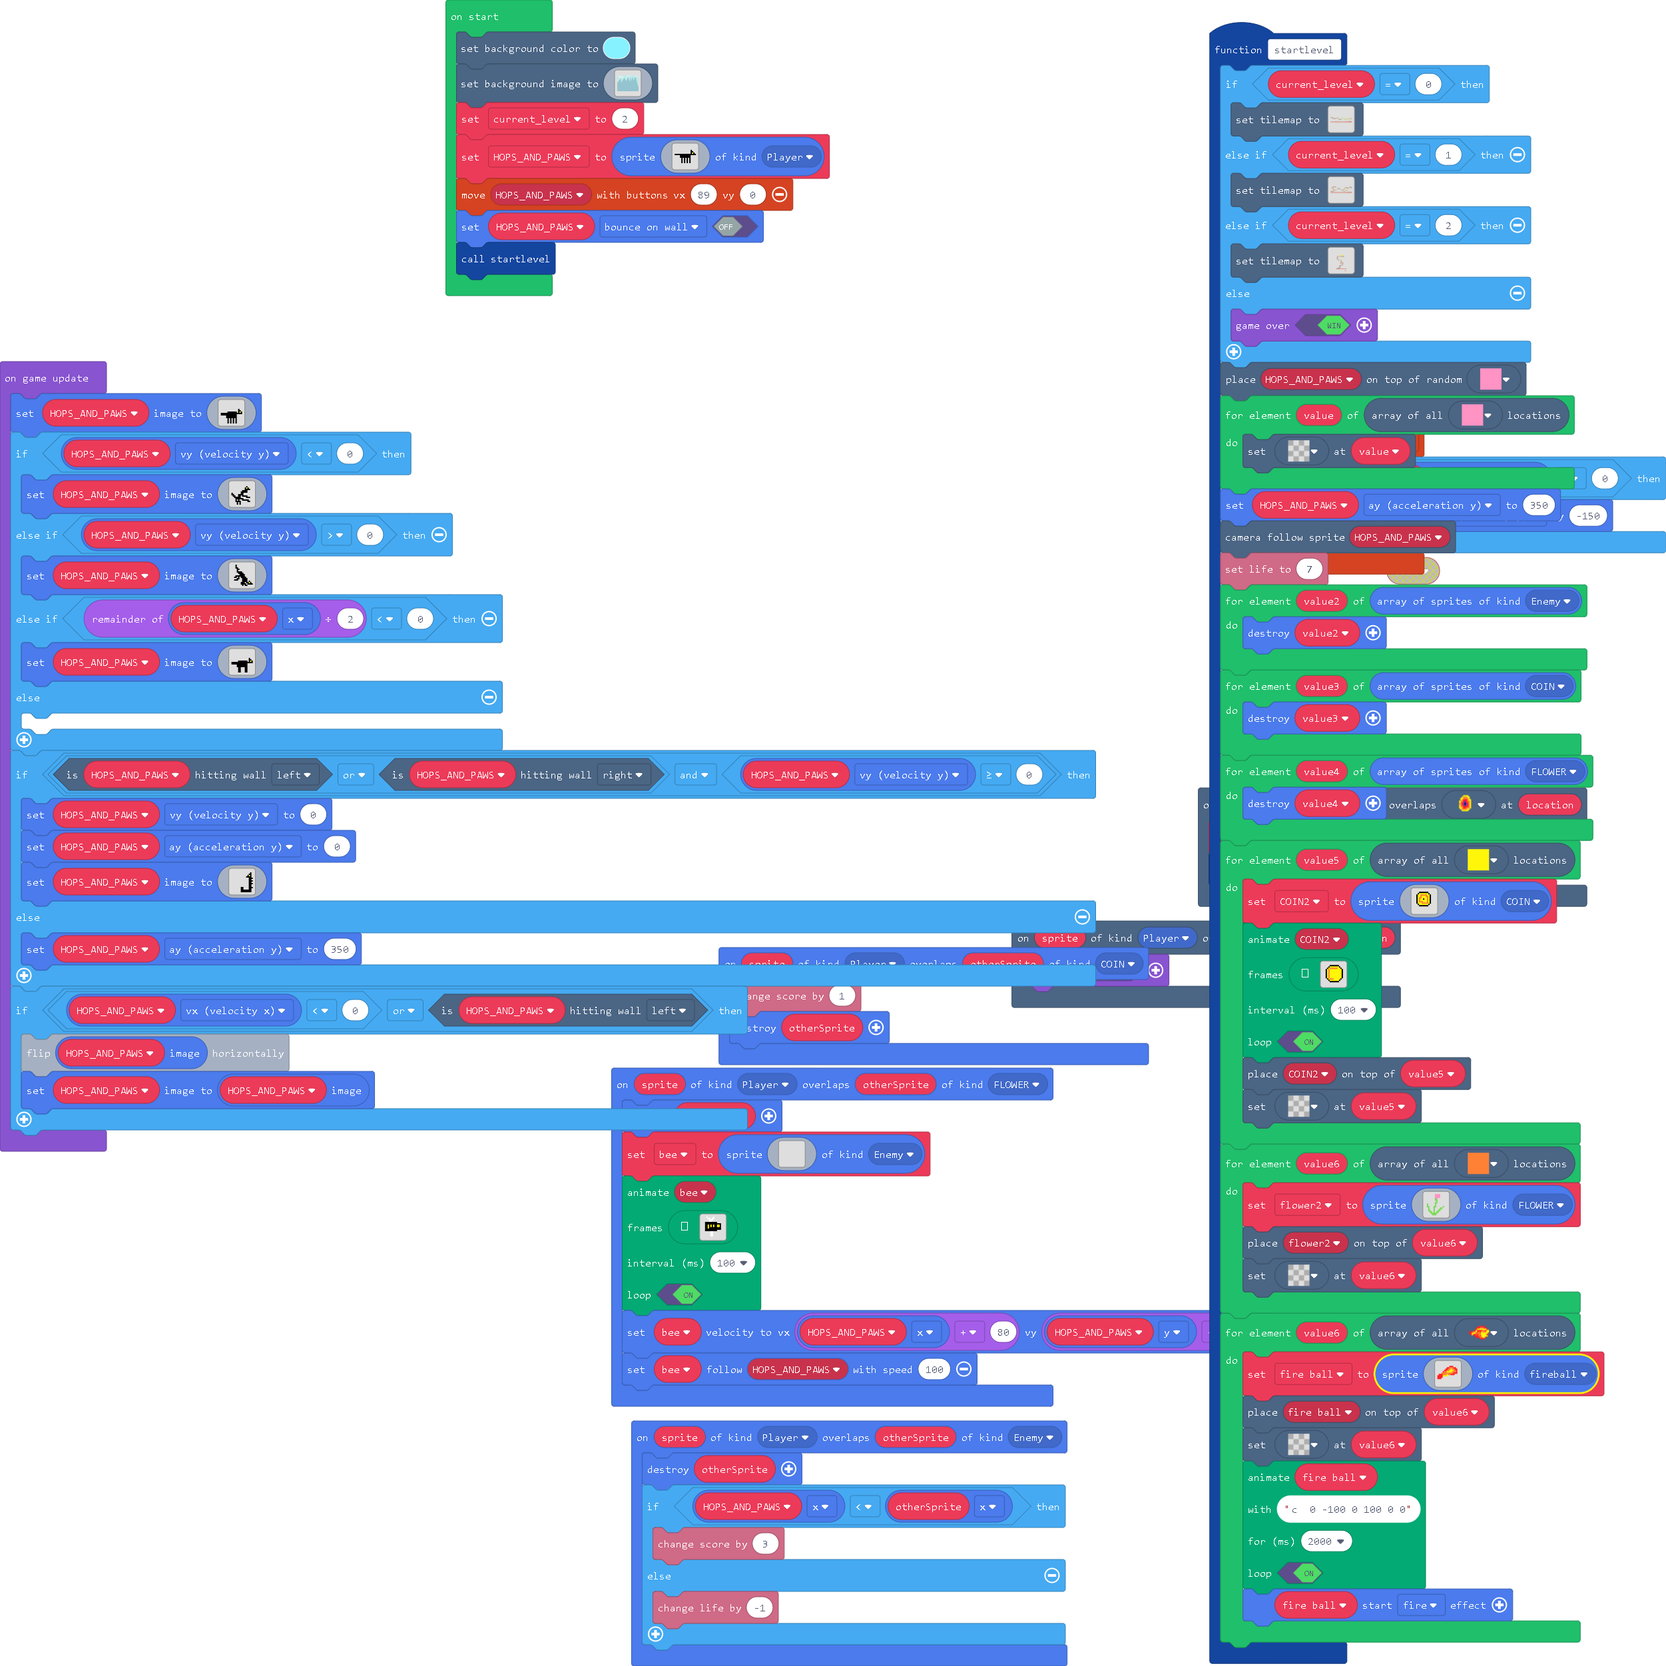
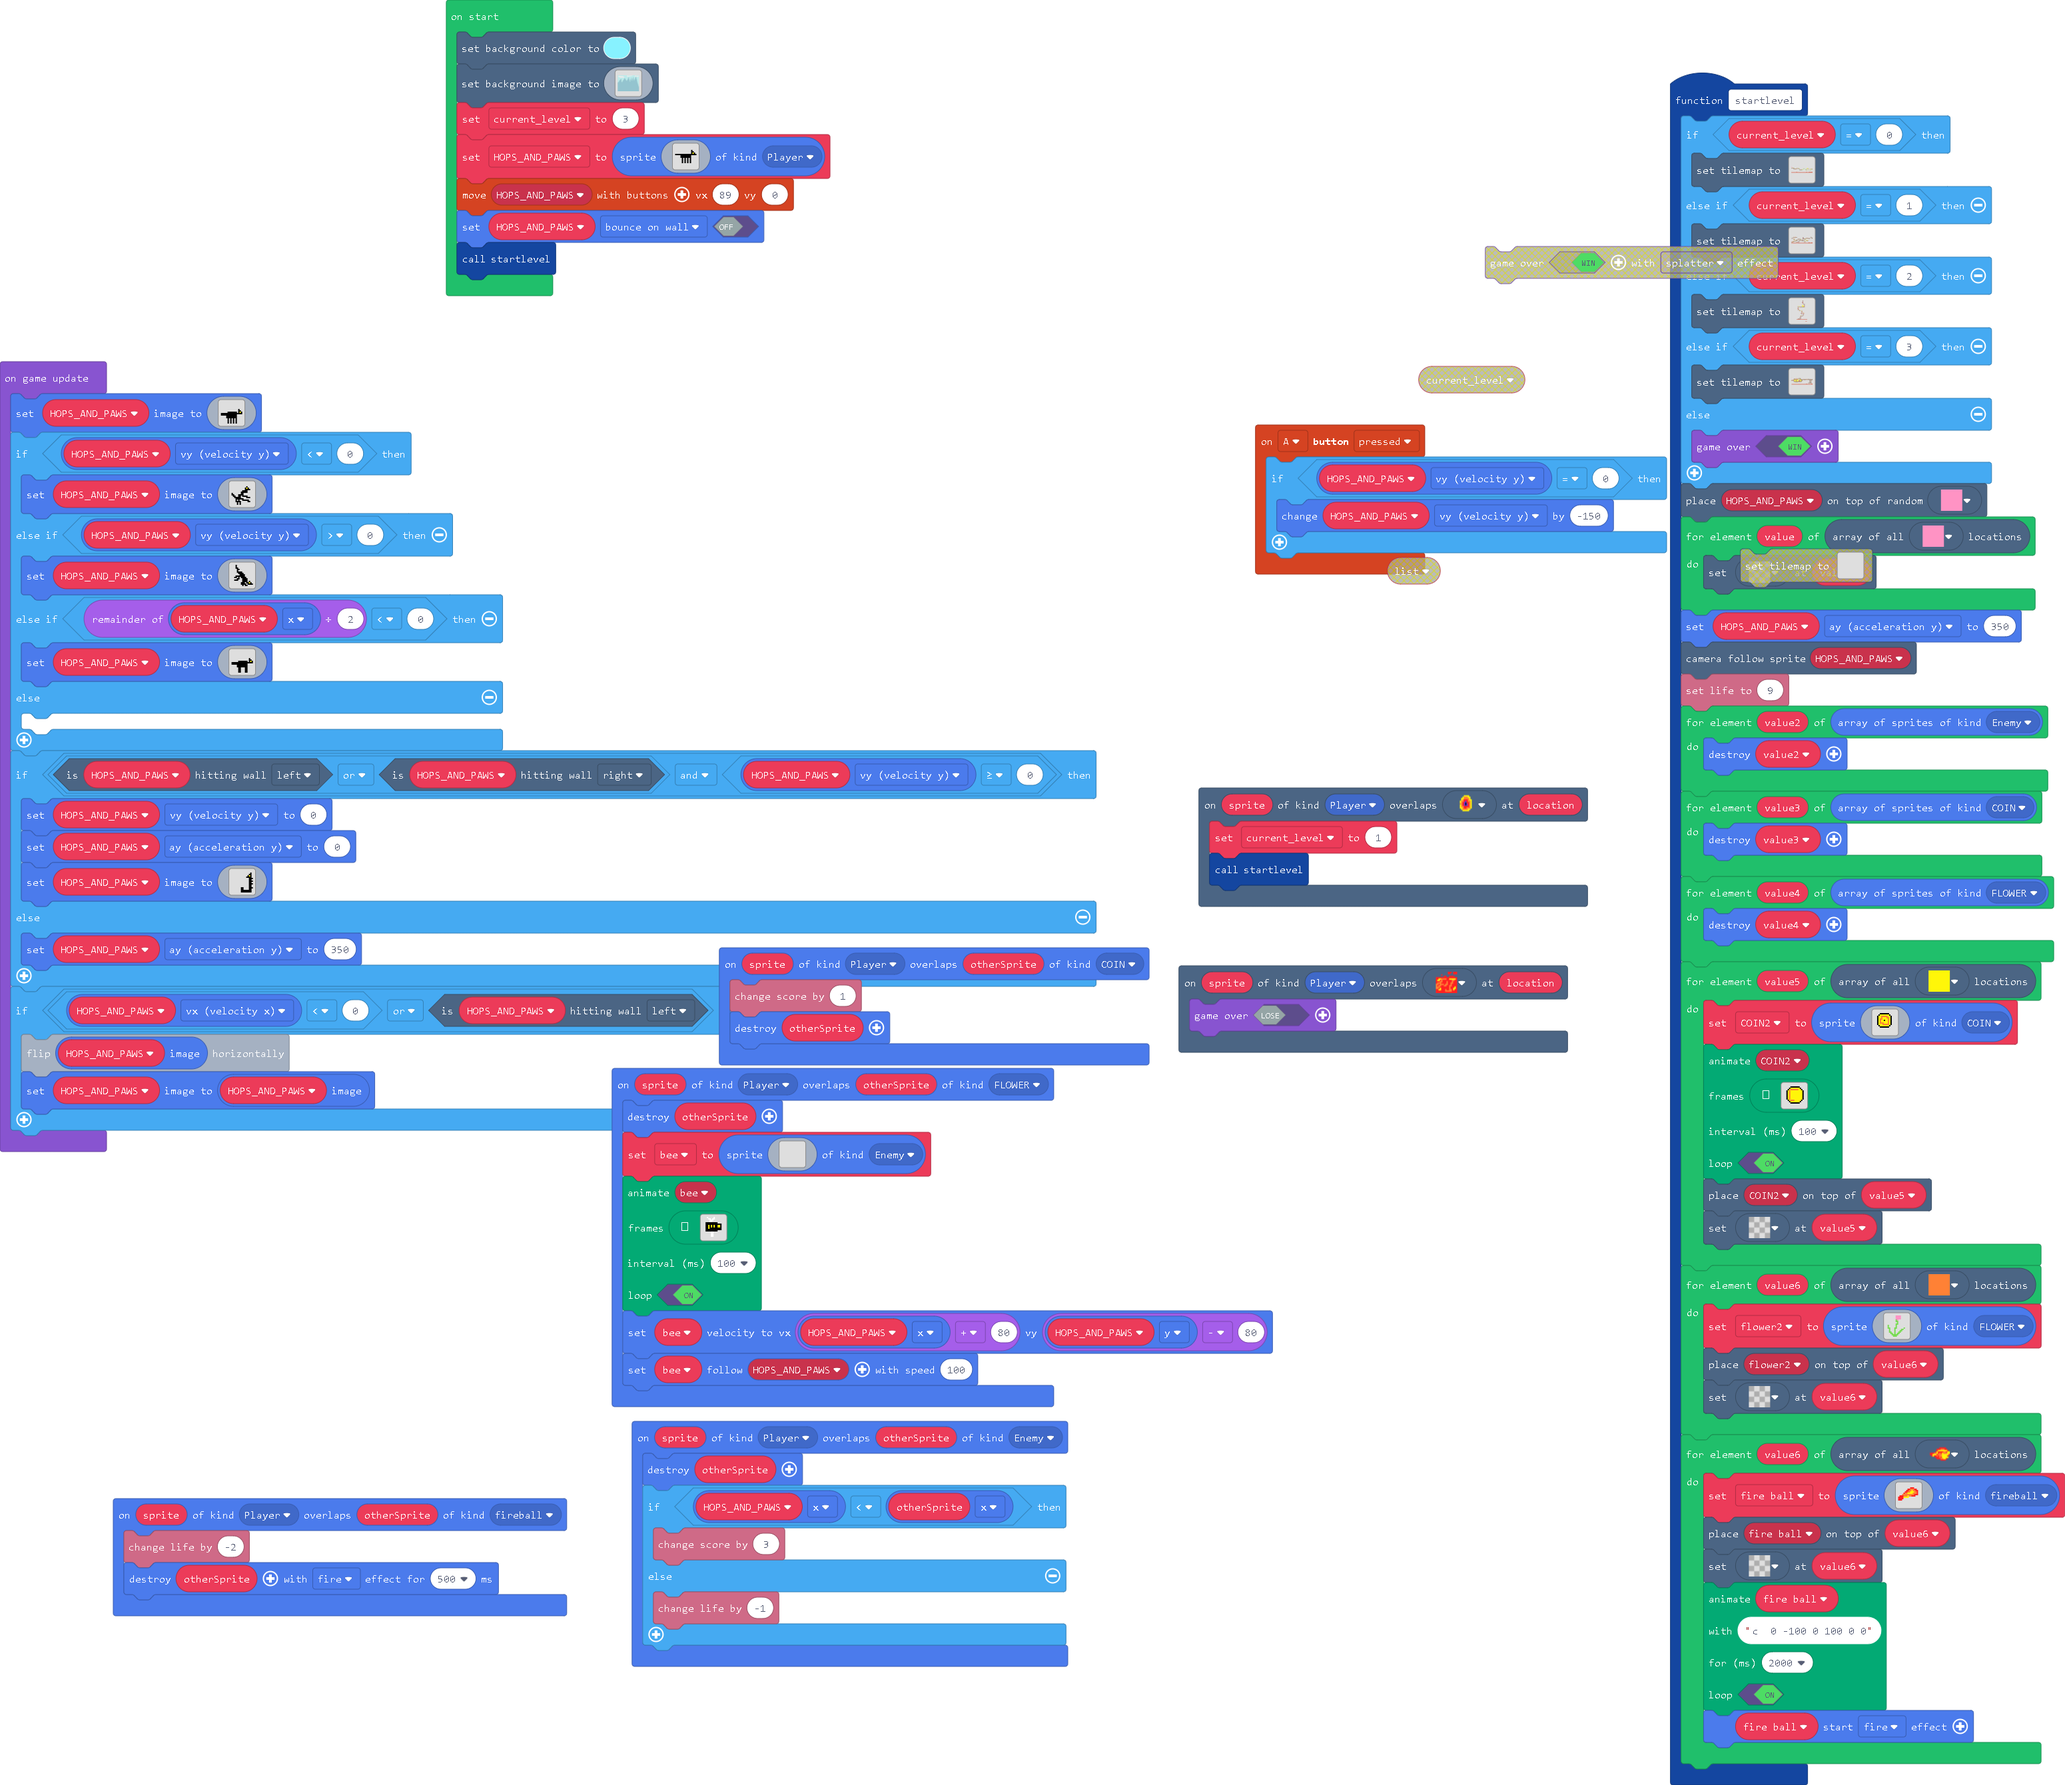
Update pxt.json, main.blocks, main.ts

diff --git a/main.ts b/main.ts
@@ -309,6 +309,10 @@ e e e e e e e e e e e e e e e e
 . . . . . . . . . . . . . . . . 
 `
 }
+sprites.onOverlap(SpriteKind.Player, SpriteKind.fireball, function (sprite, otherSprite) {
+    info.changeLifeBy(-2)
+    otherSprite.destroy()
+})
 scene.onOverlapTile(SpriteKind.Player, myTiles.tile5, function (sprite, location) {
     current_level = 1
     startlevel()
@@ -332,7 +336,7 @@ sprites.onOverlap(SpriteKind.Player, SpriteKind.Enemy, function (sprite, otherSp
 function startlevel () {
     if (current_level == 0) {
         tiles.setTilemap(tiles.createTilemap(
-            hex`320010000000000000000000000000000000000000000000000000000000000000000000000000000000000000000000000000000000000000000000000000000000000000000000000000000000000000000000000000000000000000000000000000000000000009090000000000000000000000000000000000000000000000000000000000000000000000000000000000000000000000000000000000000000000000000000000000000000000000000000000000000000000000000000000000000000000000000000000008000007000000000000000000000000000000000000000000000000000000000000000000000000000000000000000001010101010100000000000000000008000700000000000000000000000000000000000000070700000000000000000000000000000000000000000008070000000101010200000000000000000008020002000000000007070008080000000007000000000000000001010101010101010000000000000000000000000000000200000002000000000202000202000002000108000600000000000000000000000000000000000000000000000008000702000000000002080000000000000000000000000202020000000000000000000000000000000000000001010101010102020000000000000002080000000800000008000800000000000000000000000000000000000000000000000000000000000000000000000000000202080000020000000200020000000000000000000000000000000000000000000000000000000000000000000000000000000000000000000000000000000000000000000000000000000000000000000000000000000000000000000000000000000000000000000000000000000000000000000000000000000000000000000000000000000000000000000000000000000000000000000000000000000000000000000000000000000000000000000005050000000000000000000000000000000000000000000505000000000505050505050505050505050505050505050505050505050505050505050505050505050505050505050505050505050505050505050505050505`,
+            hex`320010000000000000000000000000000000000000000000000000000000000000000000000000000000000000000000000000000000000000000000000000000000000000000000000000000000000000000000000000000000000000000000000000000000000009090000000000000000000000000000000000000000000000000000000000000000000000000000000000000000000000000000000000000000000000000000000000000000000000000000000000000000000000000000000000000000000000000000000008000007000000000000000000000000000000000000000000000000000000000000000000000000000000000000000001010101010110000000000000100008000700000000000000000000000000000000000000070700000000000000000000000000000000000000000008070000000101010200000000000000000008020002000000000007070008080000000007000000000000000001010101010101010000000000001000000000000000000200000002000000100202000202000002000108000600000000000000000000000000000000000000000000000008000702000000000002080000000000000000000000000202020000000000000000000000000000000000000001010101010102020000000000000002080000000800000008000800000000000000000000000000000000000000000000000000000000000000000000000000000202080000020000000200020000000000000000000000000000000000000000000000000000000000000000000000000000000000000000000000000000000000000000000000000000000000000000000000000000000000000000000000000000000000000000000000000000000000000000000000000000000000000000000000000000000000000000000000000000000000000000000000000000000000000000000000000000000000000000000005050000000000000000000000000000000000000000000505000000000505050505050505050505050505050505050505050505050505050505050505050505050505050505050505050505050505050505050505050505`,
             img`
 . . . . . . . . . . . . . . . . . . . . . . . . . . . . . . . . . . . . . . . . . . . . . . . . . . 
 . . . . . . . . . . . . . . . . . . . . . . . . . . . . . . . . . . . . . . . . . . . . . . . . . . 
@@ -356,46 +360,46 @@ function startlevel () {
         ))
     } else if (current_level == 1) {
         tiles.setTilemap(tiles.createTilemap(
-            hex`320010000000000000000000000000000000000000000000000000000000000000000000000000000000000000000000000000000000000000000007000007000700000000000000000000000000000000000000000000000000000000000000000000000100000000000000010101010101010101010000000000000000000000000000000000000000000000000000000000000001000100000000000000000000000000000000000000000000000000000000000000000000000000070000070000000000010000010005000001010000000000000000000000000000000000000000000000000000000000000101010101010107000100000000010100000000000700070000000000000000000700000000000000000000000000000006000000000000000101000000000000000000000000010101000000000000000001010101010100060000000000000000010100000000000000000000000000000000000000000000000600000000000000000000000000000101000000000000000600000000000000000000000000000000000000000000000000010100000600000000000000000000000000000000000001010000000006060000000000000000000000000000000000000000000000010101000000000000000000000000000000000000000000000606000000000000000000000000000000000007000006000000000000000000000000000000000101010101000006000000010101010000000000000000000008000000000101010101000000000000000000000000000000000000000000000600000000000000000000000000000000000000070607000000000000000000000000000000000000000000000000000001010100000000000000000000000000000000010101010100000000000000000000000000000000000000000000000000000000000000000000000000000000000000000000000000000000000000000000000000000000000000000000000000000000000000000000000000040404040000040404040404040404040404040404040404040404040404040404040404040404040404040404040404040404040404040404040404`,
[1 lines of base64/hex data omitted]
             img`
 . . . . . . . . . . . . . . . . . . . . . . . . . . . . . . . . . . . . . . . . . . . . . . . . . . 
 . . . . . . . . . . . . . . . . . . . . . . . . . . . . . . . . . . . . . . . . . . . . . . 2 . . . 
-. . . . 2 2 2 2 2 2 2 2 2 2 . . . . . . . . . . . . . . . . . . . . . . . . . . . . . . . 2 . 2 . . 
-. . . . . . . . . . . . . . . . . . . . . . . . . . . . . . . . . . . . . . . . . . . . 2 . . 2 . . 
-. . 2 2 . . . . . . . . . . . . . . . . . . . . . . . . . . . . . . 2 2 2 2 2 2 2 . . 2 . . . . 2 2 
-. . . . . . . . . . . . . . . . . . . . . . . . . . . . . . . . . . . . . . . . . 2 2 . . . . . . . 
-. . . . . 2 2 2 . . . . . . . . 2 2 2 2 2 2 . . . . . . . . . . 2 2 . . . . . . . . . . . . . . . . 
-. . . . . . . . . . . . . . . . . . . . . . 2 2 . . . . . . . . . . . . . . . . . . . . . . . . . . 
-. . . . . . . 2 2 . . . . . . . . . . . . . . . . . . . . . 2 2 . . . . . . . . . . . . . . . . . . 
-. . . . . . . . . . . 2 2 2 . . . . . . . . . . . . . . . . . . . . . . . . . . . . . . . . . . . . 
-. . . . . . . . . . . . . . . . . . . . . . . . . 2 2 2 2 2 . . . . . . 2 2 2 2 . . . . . . . . . . 
-. . . . . 2 2 2 2 2 . . . . . . . . . . . . . . . . . . . . . . . . . . . . . . . . . . . . . . . . 
-. . . . . . . . . . . . . . . . . . . . . . . . . . . . . . . 2 2 2 . . . . . . . . . . . . . . . . 
-2 2 2 2 2 . . . . . . . . . . . . . . . . . . . . . . . . . . . . . . . . . . . . . . . . . . . . . 
-. . . . . . . . . . . . . . . . . . . . . . . . . . . . . . . . . . . . . . . . . . . . . . . . . . 
+. . . . 2 2 2 2 2 2 2 2 2 2 . . . . . . . . . . . . . 2 2 . . . . . . . . . . . . . . . . 2 . 2 . . 
+. . . . . . . . . . . . . . . . . . . . . . . . . . . 2 . . . . . . . . . . . . . . . . 2 . . 2 . . 
+. . 2 2 . . . . . . . . . . . . . . . . . . . . . . . 2 . . . . . . 2 2 2 2 2 2 2 . . 2 . . . . 2 2 
+. . . . . . . . . . . . . . . . . . . . . . . . . . . 2 2 2 2 2 2 . . . . . . . . 2 2 . . . . . . . 
+. . . . . 2 2 2 . . . . . . . . 2 2 2 2 2 2 . . . . . 2 . . . . 2 2 . . . . . . . . . . . . . . . . 
+. . . . . . . . . . . . . . . . . . . . . . 2 2 . . . 2 . . . . . . . . . . . . . . . . . . . . . . 
+. . . . . . . 2 2 . . . . . . . . . . . . . . . . . . 2 . . 2 2 . . . . . . . . . . . . . . . . . . 
+. . . . . . . . . . . 2 2 2 . . . . . 2 2 2 2 2 2 . . 2 . . . . . . . . . . . . . . . . . . . . . . 
+. . . . . . . . . . . . . . . . . 2 2 2 . . . . . 2 2 2 2 2 . . . . . . 2 2 2 2 . . . . . . . . . . 
+. . . . . 2 2 2 2 2 . . . . . . . 2 . . . . . . . . . . . . . . . . . . . . . . . . . . . . . . . . 
+. . . . . . . . . . . . . . . . . 2 . . . . . . . . . . . . . 2 2 2 . . . . . . . . . . . . . . . . 
+2 2 2 2 2 . . . . . . 2 2 . . 2 . 2 . . . . . . . . . . . . . . . . . . . . . . . . . . . . . . . . 
+. . . . . . . . . . . . . . . . . 2 . . . . . . . . . . . . . . . . . . . . . . . . . . . . . . . . 
 . . . . . . . . . . . . . . . . . . . . . . . . . . . . . . . . . . . . . . . . . . . . . . . . . . 
 `,
-            [myTiles.tile0,myTiles.tile1,myTiles.tile2,myTiles.tile3,myTiles.tile4,myTiles.tile5,myTiles.tile6,myTiles.tile7,myTiles.tile8,myTiles.tile9,myTiles.tile10,myTiles.tile11,myTiles.tile12,myTiles.tile13,myTiles.tile14,myTiles.tile15],
+            [myTiles.tile0,myTiles.tile1,myTiles.tile2,myTiles.tile3,myTiles.tile4,myTiles.tile5,myTiles.tile6,myTiles.tile7,myTiles.tile8,myTiles.tile9,myTiles.tile10,myTiles.tile11,myTiles.tile12,myTiles.tile13,myTiles.tile14,myTiles.tile15,sprites.castle.tileGrass2],
             TileScale.Sixteen
         ))
     } else if (current_level == 2) {
         tiles.setTilemap(tiles.createTilemap(
[2 lines of base64/hex data omitted]
             img`
 . . . . . . . . . . . . . . . . . . . . . . . . . 
+. . . . . . . . . . . . . . 2 . . . . . . . . . . 
+. . . . . . . . . . . . . . 2 . . . . . . . . . . 
+. . . . . . . . . . . . . . 2 . . . . . . . . . . 
+. . . . . . . . . . . . . . 2 . . . . . . . . . . 
+. . . . . . . . . . . . . 2 . 2 . . . . . . . . . 
 . . . . . . . . . . . . . . . . . . . . . . . . . 
-. . . . . . . . . . . . . . . . . . . . . . . . . 
-. . . . . . . . . . . . . . . . . . . . . . . . . 
-. . . . . . . . . . . . . . . . . . . . . . . . . 
-. . . . . . . . . . . . . . . . . . . . . . . . . 
-. . . . . . . . . . . . . . . . . . . . . . . . . 
-. . . . . . . . . . . . . . . . . . . . . . . . . 
-. . . . . . . . . . . . . . . . . . . . . . . . . 
-. . . . . . . . . . . . . . . . . . . . . . . . . 
-. . . . . . . . . . . . . . . . . . . . . . . . . 
-. . . . . . . . . . . . . . . . . . . . . . . . . 
-. . . . . . . . . . . . . . . . . . . . . . . . . 
-. . . . . . . . . . . . . . . . . . . . . . . . . 
+. . . . . . . . . . . . . . 2 . . . . . . . . . . 
+. . . . . . . . . . . . . . . . . . 2 . . . . . . 
+. . . . . . . . . . . . . . . . . . 2 . . . . . . 
+. . . . . . . . . . . . . . . . . . 2 . . . . . . 
+. . . . . . . . . . . . . . . . . . 2 . . . . . . 
+. . . . . . . . . . . . . . . . . . 2 . . . . . . 
+. . . . . . . . . . . . . . . . . . 2 . . . . . . 
 . . . 2 . . . . . . . . . . . . . . . . . . . . . 
 . . . 2 . . 2 2 . . 2 2 2 2 2 2 2 2 2 . . . . . . 
 . . . 2 . . . . . . . . . . . . . . . . . . . . . 
@@ -436,6 +440,30 @@ function startlevel () {
             [myTiles.tile0,myTiles.tile1,myTiles.tile2,myTiles.tile3,myTiles.tile4,myTiles.tile5,myTiles.tile6,myTiles.tile7,myTiles.tile8,myTiles.tile9,myTiles.tile10,myTiles.tile11,myTiles.tile12,myTiles.tile13,myTiles.tile14,sprites.castle.tilePath1,sprites.castle.tilePath4,myTiles.tile15],
             TileScale.Sixteen
         ))
+    } else if (current_level == 3) {
+        tiles.setTilemap(tiles.createTilemap(
[1 lines of base64/hex data omitted]
+            img`
+. . . . . . . . . . . . . . . . . . . . . . . . . . . . . . . . . . . . . . . . . . . . . . . . . . 
+. . . . . . . . . . . . . . . . 2 . . 2 2 . . . . . . . . . . . . . . . . . . . . . . . . . . . . . 
+. . . . . . . . . . . 2 . . . . 2 . . 2 2 2 . . . . . . . . . . . . . . . . . . . . . . . . . . . . 
+. . . . . . 2 2 2 2 . 2 . . 2 2 . . 2 2 . 2 2 2 . . . . . . . . . . . . . . . . . . . . . . . . . . 
+. . . . . . 2 2 . . . . . . 2 . . . . 2 . . 2 2 . . 2 2 2 2 2 2 . . 2 2 2 2 2 2 2 2 2 2 . 2 2 2 . 2 
+. . . . . . 2 . . . . . . . . . . . . 2 . . . 2 2 2 2 . . . . 2 . . . . . . . . . . . 2 . 2 . 2 2 2 
+2 2 2 2 2 2 2 . . . . 2 2 . . . . . . . . . . . 2 2 . . . . . . . . . . . . . . . . . 2 . 2 2 . . . 
+. . . . . . 2 . . . . 2 . . . . . 2 2 2 2 . . . 2 2 . . . . . . . . . . . . . . . . . 2 . . 2 . . . 
+. . . . . . 2 . . . . 2 . . . . . . . . 2 2 . 2 2 . . . . . . . . . . . . . . . . . . 2 . . 2 . . . 
+. . . . . . 2 2 2 2 2 2 2 2 2 2 2 2 2 2 2 2 2 2 . . . . . . . . . . . . . . . . . . . 2 . 2 2 . . . 
+. . . . . . . . . 2 2 2 . 2 2 . . . . . . . . . . . . . . . . . . . . . . . . . . . . 2 . 2 . . . . 
+. . . . . . . . . . . . . . . . . . . . . . . . . . . . . . . . . . . . . . . . . . . 2 . 2 2 . . . 
+. . . . . . . . . . . . . . . . . . . . . . . . . . . . . . . . . . . . . . . . 2 2 2 2 2 2 2 2 . . 
+. . . . . . . . . . . . . . . . . . . . . . . . . . . . . . . . . . . . . . . . . . . . . . . . . . 
+. . . . . . . . . . . . . . . . . . . . . . . . . . . . . . . . . . . . . . . . . . . . . . . . . . 
+. . . . . . . . . . . . . . . . . . . . . . . . . . . . . . . . . . . . . . . . . . . . . . . . . . 
+`,
+            [myTiles.tile0,myTiles.tile1,myTiles.tile2,myTiles.tile3,myTiles.tile4,myTiles.tile5,myTiles.tile6,myTiles.tile7,myTiles.tile8,myTiles.tile9,myTiles.tile10,myTiles.tile11,myTiles.tile12,myTiles.tile13,myTiles.tile14,myTiles.tile15],
+            TileScale.Sixteen
+        ))
     } else {
         game.over(true)
     }
@@ -445,7 +473,7 @@ function startlevel () {
     }
     HOPS_AND_PAWS.ay = 350
     scene.cameraFollowSprite(HOPS_AND_PAWS)
-    info.setLife(7)
+    info.setLife(9)
     for (let value2 of sprites.allOfKind(SpriteKind.Enemy)) {
         value2.destroy()
     }
@@ -884,7 +912,7 @@ scene.setBackgroundImage(img`
 6 6 6 6 6 6 6 6 6 6 6 6 6 6 6 6 6 6 6 6 6 6 6 6 6 6 6 6 6 6 6 6 6 6 6 6 6 6 6 6 6 6 6 6 6 6 6 6 6 6 6 6 6 6 6 6 6 6 6 6 6 6 6 6 6 6 6 6 6 6 6 6 6 6 6 6 6 6 6 6 6 6 6 6 6 6 6 6 6 6 6 6 6 6 6 6 6 6 6 6 6 6 6 6 6 6 6 6 6 6 6 6 6 6 6 6 6 6 6 6 6 6 6 6 6 6 6 6 6 6 6 6 6 6 6 6 6 6 6 6 6 6 6 6 6 6 6 6 6 6 6 6 6 6 6 6 6 6 6 6 
 6 6 6 6 6 6 6 6 6 6 6 6 6 6 6 6 6 6 6 6 6 6 6 6 6 6 6 6 6 6 6 6 6 6 6 6 6 6 6 6 6 6 6 6 6 6 6 6 6 6 6 6 6 6 6 6 6 6 6 6 6 6 6 6 6 6 6 6 6 6 6 6 6 6 6 6 6 6 6 6 6 6 6 6 6 6 6 6 6 6 6 6 6 6 6 6 6 6 6 6 6 6 6 6 6 6 6 6 6 6 6 6 6 6 6 6 6 6 6 6 6 6 6 6 6 6 6 6 6 6 6 6 6 6 6 6 6 6 6 6 6 6 6 6 6 6 6 6 6 6 6 6 6 6 6 6 6 6 6 6 
 `)
-current_level = 2
+current_level = 3
 HOPS_AND_PAWS = sprites.create(img`
 . . . . . . . . . . . . . . . . 
 . . . . . . . . . . . . . . . . 
